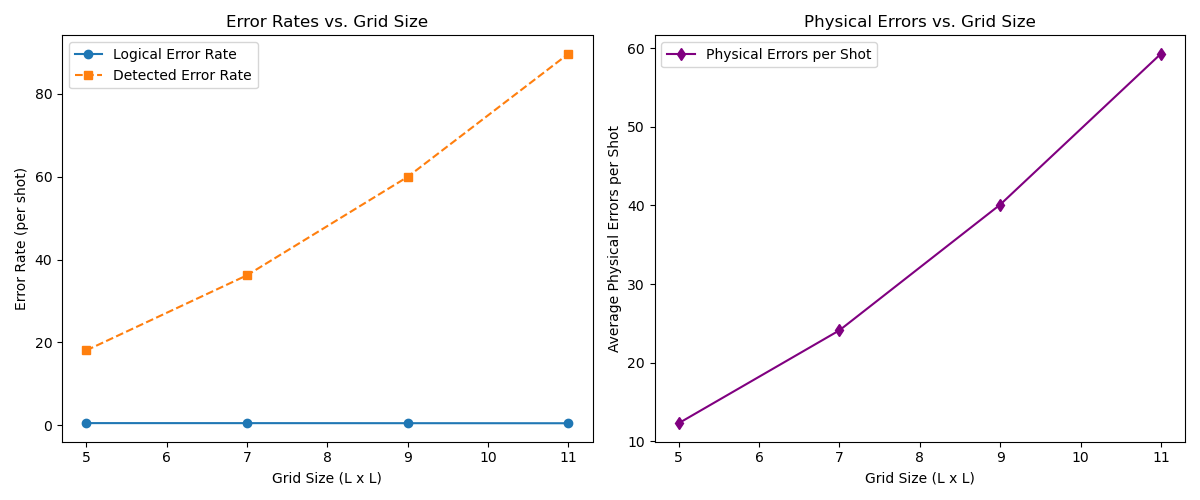
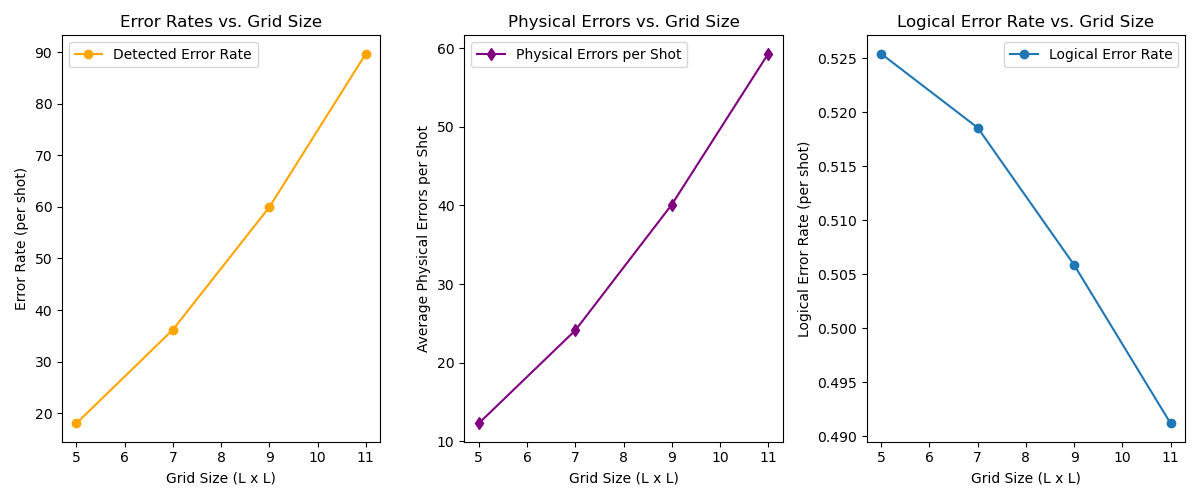
visuallt showing improvements

diff --git a/stats-aggregator.py b/stats-aggregator.py
@@ -53,20 +53,43 @@ physical_errors = [agg_5['avg_physical_errors'], agg_7['avg_physical_errors'], a
 plt.figure(figsize=(12, 5))
 
 # Plot logical and detected error rates versus grid size.
-plt.subplot(1, 2, 1)
-plt.plot(grid_sizes, logical_error_rates, 'o-', label='Logical Error Rate')
-plt.plot(grid_sizes, detected_error_rates, 's--', label='Detected Error Rate')
+plt.subplot(1, 3, 1)
+# plt.plot(grid_sizes, logical_error_rates, 'o-', label='Logical Error Rate')
+plt.plot(grid_sizes, detected_error_rates, 'o-', label='Detected Error Rate', color='orange')
 plt.xlabel("Grid Size (L x L)")
 plt.ylabel("Error Rate (per shot)")
 plt.title("Error Rates vs. Grid Size")
 plt.legend()
 
 # Plot average physical errors (normalized per shot) versus grid size.
-plt.subplot(1, 2, 2)
+plt.subplot(1, 3, 2)
 plt.plot(grid_sizes, physical_errors, 'd-', color='purple', label='Physical Errors per Shot')
 plt.xlabel("Grid Size (L x L)")
 plt.ylabel("Average Physical Errors per Shot")
 plt.title("Physical Errors vs. Grid Size")
+plt.legend()
+
+print("Logical Error Rates:", logical_error_rates)
+
+# fit a linear model to the logical error rates
+# y = mx + c
+x = np.array(grid_sizes)
+y = np.array(logical_error_rates)
+m, c = np.polyfit(x, y, 1)
+print(f"m: {m}, c: {c}")
+
+# fit a log model to the logical error rates
+# y = a * np.log(x) + b
+a, b = np.polyfit(np.log(x), y, 1)
+print(f"a: {a}, b: {b}")
+
+plt.subplot(1, 3, 3)
+plt.plot(grid_sizes, logical_error_rates, 'o-', label='Logical Error Rate')
+# plt.plot(x, a*np.log(x) + b, 'g--', label=f'Fit: y = {a:.2f}log(x) + {b:.2f}')
+# plt.plot(x, m*x + c, 'r--', label=f'Fit: y = {m:.2f}x + {c:.2f}')
+plt.xlabel("Grid Size (L x L)")
+plt.ylabel("Logical Error Rate (per shot)")
+plt.title("Logical Error Rate vs. Grid Size")
 plt.legend()
 
 plt.tight_layout()
